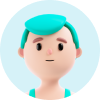
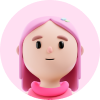
[UPDATE] 아바타 사진 수정 및 남자면 남자 아바타만 여자면 여자아바타만 나오게 끔, 버튼 반응형

diff --git a/src/components/main/UserCard.tsx b/src/components/main/UserCard.tsx
@@ -15,7 +15,8 @@ type Props = {
   userImg: string;
 };
 
-const border = 'border-2 border-solid border-black px-[0.63rem] py-[0.25rem] rounded-[1rem] text-[0.8125rem]';
+const border =
+  'border-2 border-solid border-white text-white px-[0.63rem] py-[0.25rem] rounded-[1rem] text-[0.8125rem]';
 
 function UserCard({
   age,
@@ -37,6 +38,7 @@ function UserCard({
 
   useEffect(() => {
     setIsFlipped(false);
+    // eslint-disable-next-line react-hooks/exhaustive-deps
   }, []);
 
   return (
@@ -75,7 +77,7 @@ function UserCard({
         <div className={`card-back ${isFlipped ? '' : 'hidden'}`}>
           <div className="relative w-full aspect-[2/3]">
             <Image className="rounded-[1.5rem] blur-md" src={userImg} alt="유저 아바타 이미지" fill />
-            <div className="absolute flex flex-col gap-[10px] bottom-[150px] left-[24px]">
+            <div className="absolute flex flex-col gap-[10px] bottom-[100px] left-[24px]">
               <div className="flex items-end w-full gap-[4px]">
                 <h1 className="text-[24px] font-bold leading-[24px]">{name}</h1>
                 <h2 className="h-[16px] text-[16px]  leading-[16px] font-medium">{age}</h2>
@@ -95,26 +97,21 @@ function UserCard({
                 })}
               </div>
             </div>
-            <div className="absolute bottom-[60px] flex flex-col gap-[8px] my-[1.5rem] h-[52px] left-[24px]">
+            <div className="absolute bottom-[5px] flex flex-col gap-[8px] my-[1.5rem] h-[52px] left-[24px]">
               <h1 className="text-[18px] leading-[18px] font-medium ">기본정보</h1>
-              <div className="flex flex-row gap-[0.25rem] h-[26px]">
+              <div className="flex flex-row gap-[0.25rem] h-[26px] w-[270px]">
                 <div
-                  className={`${border} px-[12px] py-[4px] flex justify-center items-center text-[14px] font-medium leading-[14px] rounded-[20px] border-[1px] bg-customGreen2`}
+                  className={`${border} px-[12px] py-[4px] flex justify-center items-center text-[14px] font-medium leading-[14px] rounded-[20px] border-[1px]`}
                 >
                   {height}cm
                 </div>
                 <div
-                  className={`${border} px-[12px] py-[4px] flex justify-center items-center text-[14px] font-medium leading-[14px]  rounded-[20px] border-[1px] bg-customGreen2`}
+                  className={`${border} px-[12px] py-[4px] flex justify-center items-center text-[14px] font-medium leading-[14px]  rounded-[20px] border-[1px]`}
                 >
                   {gender === 'M' ? '남자' : '여자'}
                 </div>
-              </div>
-            </div>
-            <div className="absolute bottom-4 flex flex-col h-[52px] left-[24px] ">
-              <h1 className="text-[18px] leading-[18px] font-medium">MBTI</h1>
-              <div className="flex flex-row gap-[0.25rem] h-[26px] mt-[0.5rem] ">
                 <div
-                  className={`${border} flex justify-center items-center px-[12px] py-[4px]  text-[14px] font-medium leading-[14px] rounded-[20px] border-[1px] bg-customGreen2`}
+                  className={`${border} flex justify-center items-center px-[12px] py-[4px]  text-[14px] font-medium leading-[14px] rounded-[20px] border-[1px]`}
                 >
                   {mbti}
                 </div>

diff --git a/src/components/my_profile/EditMyProfile.tsx b/src/components/my_profile/EditMyProfile.tsx
@@ -15,7 +15,7 @@ import { UserState, userState } from '@/recoil/user';
 
 function EditMyProfile() {
   const [registerData, setRegisterData] = useRecoilState(userState);
-  const myInfo = registerData?.profile;
+  const myInfo: any = registerData?.profile;
   const [selectedImg, setSelectedImg] = useState<any | null>(myInfo?.user_img);
   const [file, setFile] = useState<any | null>('test');
   const { openMbtiModal, mbtiModal } = MbtiModal();
@@ -24,6 +24,9 @@ function EditMyProfile() {
   const [name, setName] = useState<string | undefined>(myInfo?.name || undefined);
   const [age, setAge] = useState<number | undefined>(myInfo?.age || undefined);
   const [height, setHeight] = useState<number | undefined>(myInfo?.height || undefined);
+
+  const manNumber = [1, 3, 5, 7, 9, 11, 13, 15];
+  const womanNumber = [0, 2, 4, 6, 8, 10, 12, 14];
 
   const nameHandler = (e: React.ChangeEvent<HTMLInputElement>) => {
     setName(e.target.value);
@@ -53,6 +56,12 @@ function EditMyProfile() {
     e.preventDefault();
   };
 
+  const updateGender = (gender: string) => {
+    const avatarNumbers = gender === 'M' ? manNumber : womanNumber;
+    const randomIndex = Math.floor(Math.random() * avatarNumbers.length);
+    return avatarNumbers[randomIndex];
+  };
+
   return (
     <div className="flex flex-col items-center justify-start h-full">
       <form className="w-[320px] h-[67dvh] my-[25px] overflow-y-auto scrollbar-hide" onSubmit={onSubmitHandelr}>
@@ -76,7 +85,7 @@ function EditMyProfile() {
                     ...prevData,
                     profile: {
                       ...prevData.profile,
-                      avatar: Math.floor(Math.random() * 15)
+                      avatar: updateGender(myInfo?.gender)
                     }
                   }));
                 }}

diff --git a/src/components/main/FetchUserCards.tsx b/src/components/main/FetchUserCards.tsx
@@ -88,6 +88,7 @@ function FetchUserCards() {
 
   useEffect(() => {
     getUserCards();
+    // eslint-disable-next-line react-hooks/exhaustive-deps
   }, [registerData]);
 
   useEffect(() => {
@@ -121,8 +122,8 @@ function FetchUserCards() {
   };
 
   return (
-    <div className="w-full">
-      {isLoading === false && <SkeletonMain />}
+    <div className="relative w-full">
+      {isLoading === true && <SkeletonMain />}
       <SlideEffect isHateEffect={isHateEffect} />
       <Swiper
         modules={[Navigation]}
@@ -135,7 +136,7 @@ function FetchUserCards() {
         onSwiper={(swiper: any) => {
           setSwiper(swiper);
         }}
-        className="!px-[1.5rem] !py-[2rem]"
+        className="!px-[1.5rem] !pb-[2rem]"
         navigation={true}
         touchRatio={1}
         loop={true}
@@ -144,7 +145,7 @@ function FetchUserCards() {
       >
         {userCards?.map((item: any) => (
           <SwiperSlide
-            className="min-h-[34rem] md:min-h-[36rem] transform perspective-800 rotateY-0 transform-style-preserve-3d"
+            className="min-[320px]:min-h-[29rem] min-[414px]:min-h-[34rem] min-[1200px]:min-h-[36rem] transform perspective-800 rotateY-0 transform-style-preserve-3d"
             key={item.uid}
           >
             <UserCard

diff --git a/src/components/register/upload_image/UploadImg.tsx b/src/components/register/upload_image/UploadImg.tsx
@@ -28,6 +28,10 @@ const UploadImg = () => {
   const { openModal, AlertModal } = useAlertModal();
   const route = useRouter();
   const [testToggle, setTestToggole] = useState<boolean>(false);
+  const myInfo: any = register?.profile;
+
+  const manNumber = [1, 3, 5, 7, 9, 11, 13, 15];
+  const womanNumber = [0, 2, 4, 6, 8, 10, 12, 14];
 
   const handleError = (error: any) => {
     console.error('Server communication error', error);
@@ -139,6 +143,12 @@ const UploadImg = () => {
   //   // eslint-disable-next-line react-hooks/exhaustive-deps
   // }, [file]);
 
+  const updateGender = (gender: string) => {
+    const avatarNumbers = gender === 'M' ? manNumber : womanNumber;
+    const randomIndex = Math.floor(Math.random() * avatarNumbers.length);
+    return avatarNumbers[randomIndex];
+  };
+
   useEffect(() => {
     const { data: userImg } = supabase.storage.from('usersImg').getPublicUrl(`usersImg/${uid}/${selectedImg}`);
     // console.log('selectedImg', selectedImg);
@@ -147,7 +157,7 @@ const UploadImg = () => {
       profile: {
         ...prevData?.profile,
         user_img: userImg?.publicUrl,
-        avatar: Math.floor(Math.random() * 15),
+        avatar: updateGender(myInfo.gender),
         uid: uid
       }
     }));

diff --git a/src/lib/api/SupabaseApi.ts b/src/lib/api/SupabaseApi.ts
@@ -173,14 +173,14 @@ export async function getUnMatchedData(myUid: string, gender: string) {
   const { data: MatchedUser1 } = await supabase
     .from('custom_users')
     .select('*, flirting_list!inner!flirting_list_sender_uid_fkey(*)')
-    .in('flirting_list.status', ['ACCEPT']);
+    .in('flirting_list.status', ['ACCEPT', 'SOULMATE']);
   // console.log('MatchedUser', MatchedUser1);
 
   // 상태가 ACCEPT 인 것만 보여주는 데이터 (현재 유저가 receiver일 때)
   const { data: MatchedUser2 } = await supabase
     .from('custom_users')
     .select('*, flirting_list!inner!flirting_list_receiver_uid_fkey(*)')
-    .in('flirting_list.status', ['ACCEPT']);
+    .in('flirting_list.status', ['ACCEPT', 'SOULMATE']);
   // console.log('MatchedUser', MatchedUser2);
 
   // 상태가 ACCEPT 인 것만 보여주는 데이터 (현재 유저가 sender) + (현재 유저가 receiver)

diff --git a/src/components/main/SkeletonMain.tsx b/src/components/main/SkeletonMain.tsx
@@ -3,8 +3,8 @@ import { Card, Skeleton } from '@nextui-org/react';
 
 export default function SkeletonMain() {
   return (
-    <Skeleton className="absolute z-30 min-w-[23rem] md:min-w-96 min-h-[34.5rem] md:min-h-[36rem] ml-6 mt-8 rounded-lg">
-      <div className=" rounded-lg bg-default-300"></div>
+    <Skeleton className="absolute z-10 h-full w-full rounded-lg">
+      <div className="rounded-lg bg-default-300"></div>
     </Skeleton>
   );
 }

diff --git a/src/components/main/SlideEffect.tsx b/src/components/main/SlideEffect.tsx
@@ -13,7 +13,7 @@ function SlideEffect({ isHateEffect }: Props) {
     <>
       {isHateEffect === true && (
         <>
-          <div className="relative w-full h-full flex justify-center items-center">
+          <div className="absolute w-full h-full flex justify-center items-center">
             <Image className="absolute top-[220px]  z-10" src={hateImg} width={100} height={100} alt="거절" />
           </div>
         </>

diff --git a/src/app/(root)/main/page.tsx b/src/app/(root)/main/page.tsx
@@ -6,7 +6,9 @@ import Page from '@/components/layout/Page';
 function MainPage() {
   return (
     <Page noBack>
-      <FetchUserCards />
+      <div className="flex flex-col justify-center h-[calc(100vh-16vh)]">
+        <FetchUserCards />
+      </div>
     </Page>
   );
 }
